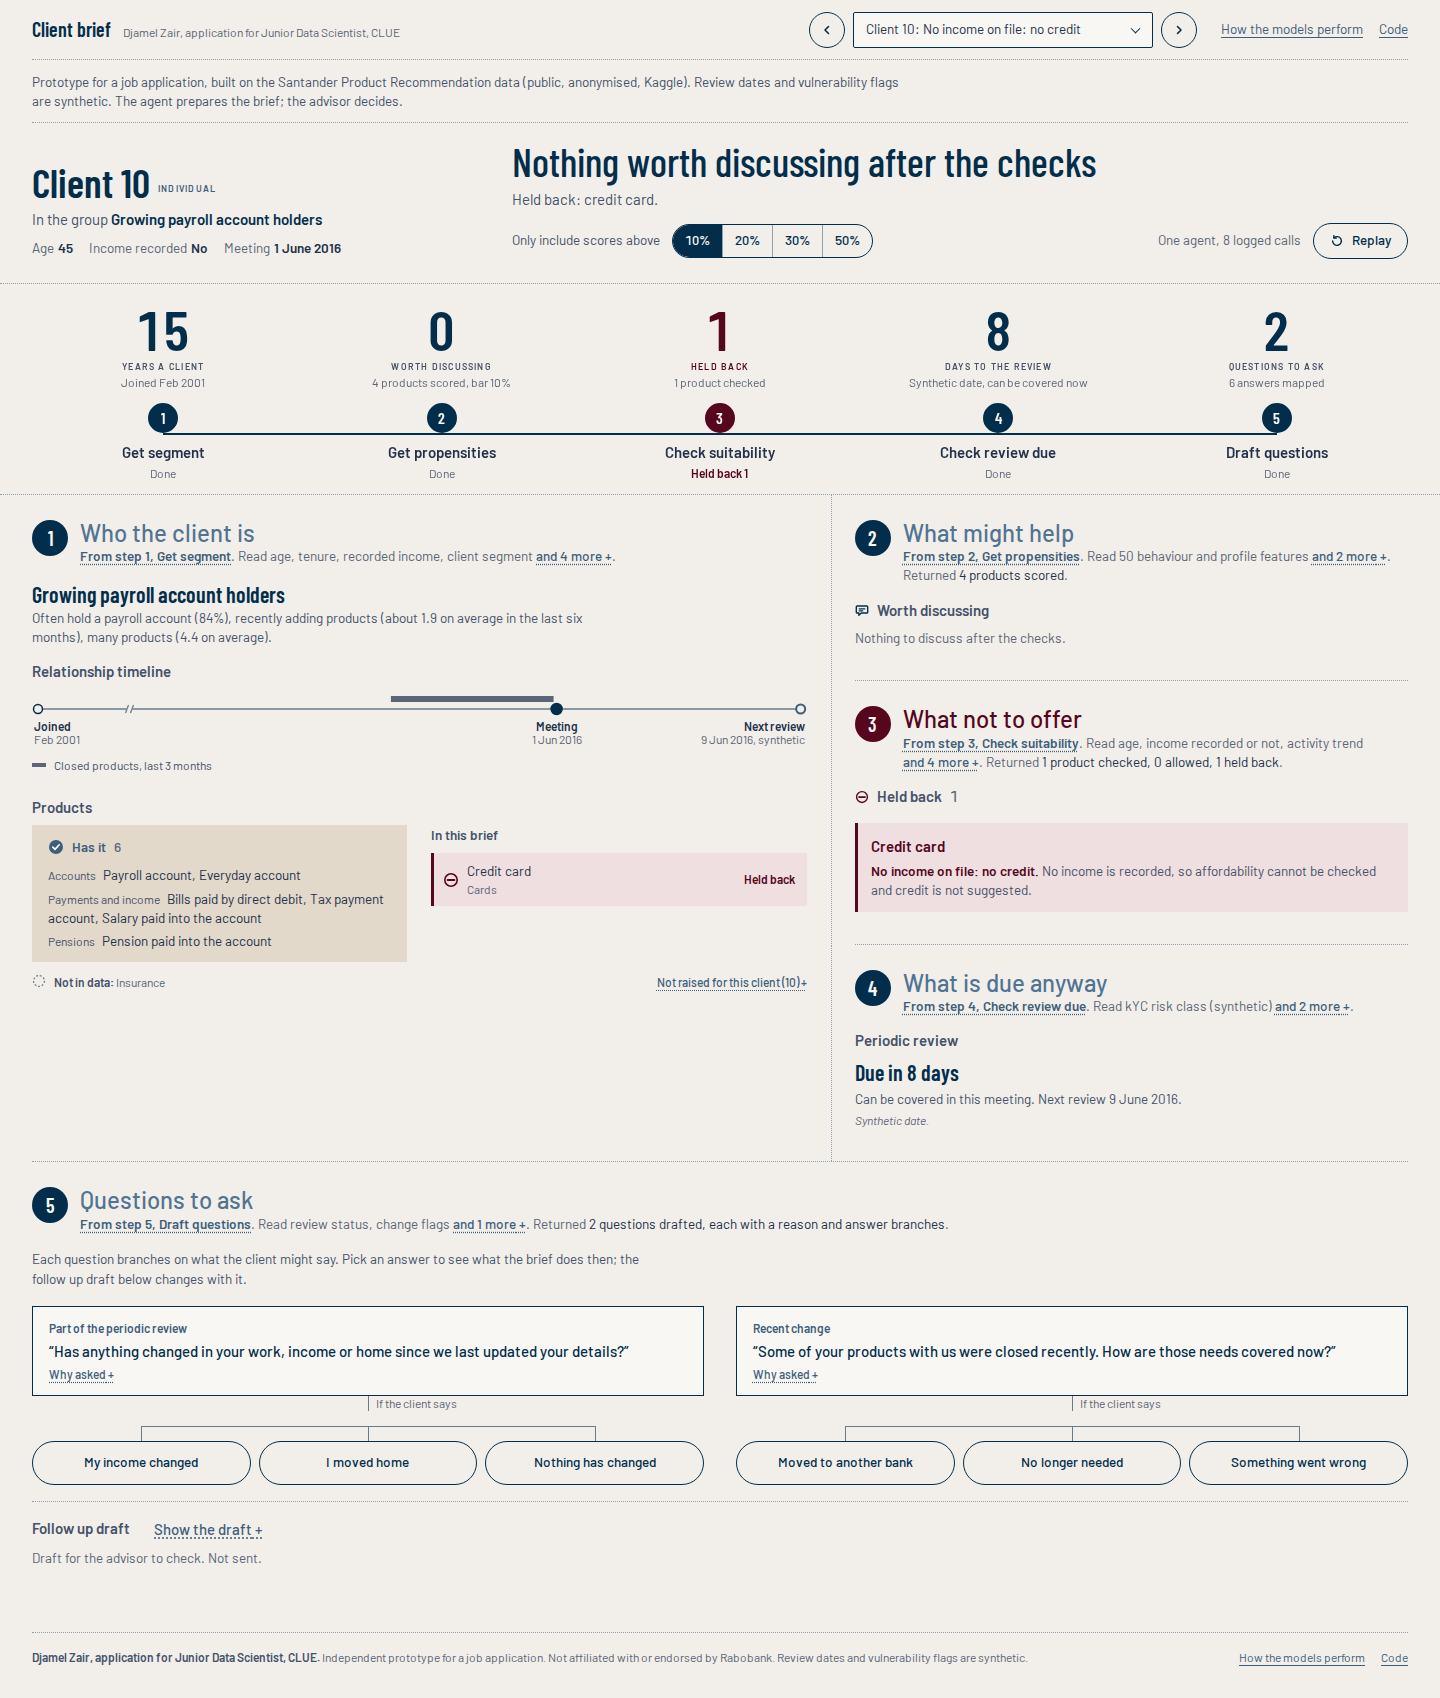
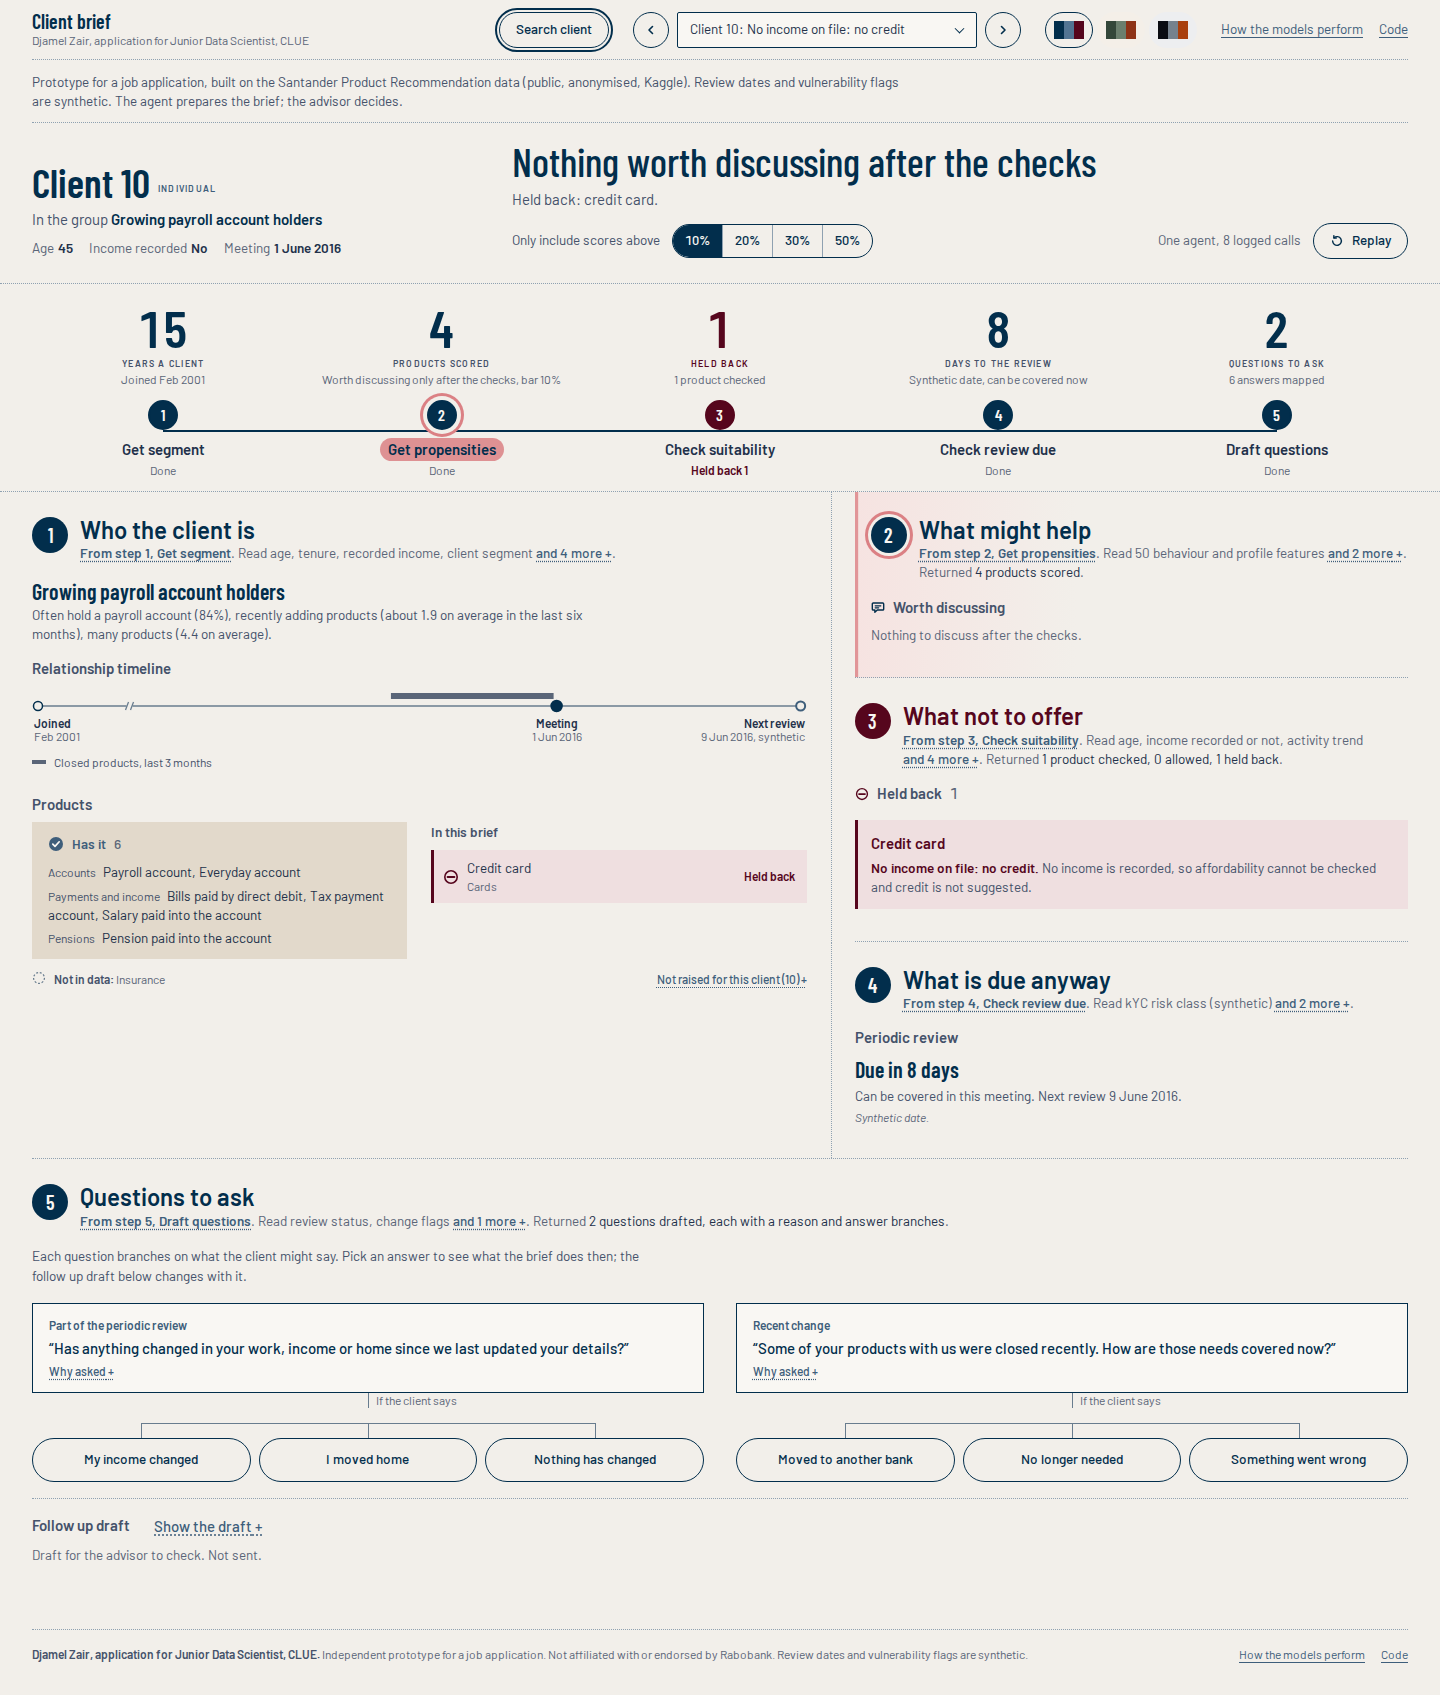
Atlas: three palettes (Fabric, Calm, Graphite), placeholder client search, critique fixes
Claude-Session: https://claude.ai/code/session_01MViAh5dQ2dT44emanrH8Bc

diff --git a/docs/brief/explore/atlas/atlas.css b/docs/brief/explore/atlas/atlas.css
@@ -85,7 +85,7 @@
   --f-display: "Barlow Condensed", "Arial Narrow", sans-serif;
   --f-sans: "Barlow", "Helvetica Neue", Arial, sans-serif;
   --f-code: ui-monospace, "SFMono-Regular", Menlo, monospace;
-  --t-num: 3.5rem;     /* 56px, the figure above each step */
+  --t-num: 3.25rem;    /* 52px, the figure above each step */
   --t-num-sm: 2.25rem; /* 36px, a figure that is a word */
   --t-h1: 2.5rem;      /* 40px, the headline */
   --t-h2: 1.5rem;      /* 24px, part titles */
@@ -167,15 +167,46 @@ b, strong { font-weight: var(--w-strong); }
 /* ---------- page frame ---------- */
 .wrap { max-width: 1480px; margin: 0 auto; padding: 0 var(--gut); }
 .top { display: flex; align-items: center; gap: var(--sp-5); min-height: 60px; border-bottom: var(--rule); }
-.top .brand { display: flex; align-items: baseline; gap: var(--sp-3); margin-right: auto; min-width: 0; }
+.top .brand { display: grid; gap: 2px; margin-right: auto; min-width: 0; }
 .top .brand b { font: var(--w-strong) 1.25rem/1 var(--f-display); color: var(--prime); white-space: nowrap; }
-.top .brand span { font-size: var(--t-cap); color: var(--ink-3); white-space: nowrap; }
+.top .brand span { font-size: var(--t-cap); line-height: 1.2; color: var(--ink-3); overflow: hidden; text-overflow: ellipsis; white-space: nowrap; }
 .top .links { display: flex; gap: var(--sp-4); font-size: var(--t-sm); white-space: nowrap; }
 .v-picker { display: flex; align-items: center; gap: var(--sp-2); }
 .v-picker .v-btn { width: 36px; padding: 0; justify-content: center; }
 .v-sel { position: relative; display: inline-flex; }
 .v-sel select { appearance: none; width: 300px; min-height: 36px; padding: 0 36px 0 var(--sp-3); background: var(--paper-2); border: 1.5px solid var(--prime); border-radius: var(--r-1); color: var(--ink); font-size: var(--t-sm); text-overflow: ellipsis; }
 .v-sel::after { content: ""; position: absolute; right: 14px; top: 50%; width: 7px; height: 7px; border: solid var(--prime); border-width: 0 1.5px 1.5px 0; transform: translateY(-70%) rotate(45deg); pointer-events: none; }
+/* the palette switch: three swatch buttons, each painted by its own data-pal block */
+.pals { display: inline-flex; gap: var(--sp-1); }
+.pal { display: inline-flex; align-items: center; gap: var(--sp-2); min-height: 36px; padding: 0 var(--sp-3) 0 var(--sp-2); background: var(--paper); color: var(--prime); border: 1.5px solid transparent; border-radius: var(--r-pill); font-size: var(--t-sm); font-weight: var(--w-mid); }
+.pal:hover { border-color: var(--mist); }
+.pal[aria-pressed="true"] { border-color: var(--prime); }
+.pal .sw { display: inline-flex; }
+/* below 1600 the names step back to a tooltip and the screen reader text, so the author line keeps its room */
+@media (max-width: 1599px) { .pal { padding: 0 var(--sp-2); } .pal .pl { position: absolute; width: 1px; height: 1px; clip-path: inset(50%); overflow: hidden; white-space: nowrap; } }
+.pal .sw i { display: block; width: 10px; height: 18px; }
+.pal .sw i:nth-child(1) { background: var(--prime); }
+.pal .sw i:nth-child(2) { background: var(--second); }
+.pal .sw i:nth-child(3) { background: var(--hold); }
+.v-btn.is-prime { background: var(--prime); color: var(--on-prime); }
+.v-btn.is-prime:hover { background: var(--ink); }
+
+/* the search dialog */
+.dlg { margin: auto; width: min(440px, calc(100vw - 2 * var(--sp-4))); max-height: calc(100dvh - 2 * var(--sp-4)); padding: var(--sp-5); background: var(--paper-2); color: var(--ink); border: 1.5px solid var(--prime); border-radius: var(--r-0); }
+.dlg::backdrop { background: color-mix(in srgb, var(--prime) 40%, transparent); }
+.dlg form { display: grid; gap: var(--sp-4); }
+.dlg-h { display: flex; align-items: baseline; justify-content: space-between; gap: var(--sp-3); }
+.dlg-h h2 { font: var(--w-strong) 1.5rem/1.1 var(--f-display); color: var(--prime); }
+.dlg-note { padding: var(--sp-2) var(--sp-3); background: var(--stone); font-size: var(--t-sm); line-height: var(--lh-sm); color: var(--ink); }
+.fld { display: grid; gap: var(--sp-1); }
+.fld label { font-size: var(--t-sm); font-weight: var(--w-strong); color: var(--ink); }
+.fld input { min-height: 40px; padding: 0 var(--sp-3); background: var(--paper); border: 1.5px solid var(--mist-ink); border-radius: var(--r-1); color: var(--ink); font: inherit; }
+.fld input:focus-visible { border-color: var(--prime); outline: 2px solid var(--prime); outline-offset: 1px; }
+.fld .hint { font-size: var(--t-cap); color: var(--ink-3); }
+.dlg-out { min-height: 1.4em; font-size: var(--t-sm); line-height: var(--lh-sm); color: var(--ink); }
+.dlg-out:empty { display: none; }
+.dlg-acts { display: flex; justify-content: flex-end; }
+
 .ctx { padding: var(--sp-3) 0; font-size: var(--t-sm); line-height: var(--lh-sm); color: var(--ink-2); max-width: 110ch; }
 
 /* masthead: who the client is on the left, the headline and the controls that change it on the right */
@@ -255,7 +286,7 @@ b, strong { font-weight: var(--w-strong); }
 .part-h { display: grid; grid-template-columns: auto minmax(0, 1fr); gap: 0 var(--sp-3); align-items: start; }
 /* the part marker is the same circle as its node on the stepper, so the eye can match them at a glance */
 .part-h .mk { grid-row: span 2; display: grid; place-items: center; width: 36px; height: 36px; margin-top: 1px; border-radius: 50%; background: var(--prime); color: var(--on-prime); font: var(--w-strong) 1.25rem/1 var(--f-display); }
-.part-h h2 { font: var(--w-mid) var(--t-h2)/1.15 var(--f-sans); color: var(--second); }
+.part-h h2 { font: var(--w-strong) var(--t-h2)/1.15 var(--f-sans); color: var(--prime); }
 .part[data-hold] .part-h h2 { color: var(--hold); }
 .part[data-hold] .part-h .mk { background: var(--hold); }
 .part[data-on] .part-h .mk, .part[data-hover] .part-h .mk { box-shadow: 0 0 0 3px var(--paper), 0 0 0 6px var(--focus); }
@@ -398,8 +429,8 @@ b, strong { font-weight: var(--w-strong); }
 /* ---------- smaller screens ---------- */
 @media (max-width: 1279px) {
   :root { --gut: var(--sp-5); --t-num: 3rem; --t-h1: 2.125rem; }
-  .top .brand span { display: none; }
-  .v-sel select { width: 240px; }
+  .v-sel select { width: 220px; }
+  .top .links { display: none; }
   .report { column-gap: var(--sp-6); }
 }
 /* a tablet: the report runs in one column, the stepper stays a row */
@@ -416,7 +447,8 @@ b, strong { font-weight: var(--w-strong); }
   :root { --gut: var(--sp-4); --t-num: 2.5rem; --t-num-sm: 1.625rem; --t-h1: 1.75rem; --t-h2: 1.25rem; --t-mark: 2.25rem; }
   .top { flex-wrap: wrap; gap: var(--sp-2); padding: var(--sp-2) 0; }
   .top .links { display: none; }
-  .v-picker { width: 100%; } .v-sel { flex: 1; } .v-sel select { width: 100%; }
+  .v-picker { width: 100%; order: 3; } .v-sel { flex: 1; } .v-sel select { width: 100%; }
+  .pals { order: 4; width: 100%; } .pal { flex: 1; justify-content: center; }
   .stepper { position: static; box-shadow: none; }
   .at-steps { grid-template-columns: minmax(0, 1fr) minmax(0, 1fr); gap: var(--sp-3); }
   .at-node { grid-template-rows: auto auto; grid-template-columns: var(--size-node) minmax(0, 1fr); justify-items: start; text-align: left; column-gap: var(--sp-2); align-items: start; }

diff --git a/docs/brief/explore/atlas/index.html b/docs/brief/explore/atlas/index.html
@@ -22,9 +22,9 @@
     <button type="button" class="v-btn find-btn" id="find-open" aria-haspopup="dialog" aria-controls="find">Search client</button>
     <div id="picker"></div>
     <div class="pals" role="group" aria-label="Colour palette">
-      <button type="button" class="pal" data-pal="fabric" data-palbtn aria-pressed="false" title="Fabric: navy, steel, stone, burgundy"><span class="sw" aria-hidden="true"><i></i><i></i><i></i></span>Fabric</button>
-      <button type="button" class="pal" data-pal="calm" data-palbtn aria-pressed="false" title="Calm: sage, moss, ivory, sand, rust"><span class="sw" aria-hidden="true"><i></i><i></i><i></i></span>Calm</button>
-      <button type="button" class="pal" data-pal="graphite" data-palbtn aria-pressed="false" title="Graphite: near black, slate, greys, orange"><span class="sw" aria-hidden="true"><i></i><i></i><i></i></span>Graphite</button>
+      <button type="button" class="pal" data-pal="fabric" data-palbtn aria-pressed="false" title="Fabric: navy, steel, stone, burgundy"><span class="sw" aria-hidden="true"><i></i><i></i><i></i></span><span class="pl">Fabric</span></button>
+      <button type="button" class="pal" data-pal="calm" data-palbtn aria-pressed="false" title="Calm: sage, moss, ivory, sand, rust"><span class="sw" aria-hidden="true"><i></i><i></i><i></i></span><span class="pl">Calm</span></button>
+      <button type="button" class="pal" data-pal="graphite" data-palbtn aria-pressed="false" title="Graphite: near black, slate, greys, orange"><span class="sw" aria-hidden="true"><i></i><i></i><i></i></span><span class="pl">Graphite</span></button>
     </div>
     <nav class="links" aria-label="Pages"><a href="../../../model.html">How the models perform</a><a id="code-l" href="https://github.com/DjamelZair/ClientMeetingBriefAgent-">Code</a></nav>
   </header>
@@ -300,9 +300,8 @@ document.getElementById("find-f").addEventListener("submit", function(e){
   if (!raw){ dOut.textContent = other ? "No match. " + PH : "Enter a client ID, for example 10 or C10."; return; }
   var m = /^(?:c|client)?\s*0*(\d{1,3})$/i.exec(raw), n = m ? +m[1] : -1;
   var i = F ? F.clients.findIndex(function(c){ return +c.ref.replace(/\D/g, "") === n; }) : -1;
-  if (i < 0){ dOut.textContent = "No showcase client with that ID. The showcase has clients 1 to " + (F ? F.count : 40) + "." + (other ? " Name and date of birth cannot match: " + PH.charAt(0).toLowerCase() + PH.slice(1) : ""); return; }
+  if (i < 0){ dOut.textContent = "No showcase client with that ID. The showcase has clients 1 to " + (F ? F.count : 40) + "." + (other ? " " + PH : ""); return; }
   dlg.close(); V.show(i, true);
-  var st = document.getElementById("report"); if (st) st.focus({preventScroll: true});
 });
 
 /* the stepper casts its shadow only while it rides at the top, which is once the masthead has left the screen */

diff --git a/docs/brief/explore/atlas/checks/acheck.py b/docs/brief/explore/atlas/checks/acheck.py
@@ -71,6 +71,31 @@ with serve() as base, sync_playwright() as p:
     ok(pg.evaluate("V.state.v.index") == 9, "prev goes back to client 10")
     pg.click('[data-act="fu"]'); pg.wait_for_timeout(300)
     ok(pg.evaluate("!document.getElementById('v-fu-body').hidden"), "follow up draft opens")
+    # palettes: the switch sets the attribute, the url and this viewer's storage
+    pg.click('[data-palbtn][data-pal="calm"]'); pg.wait_for_timeout(200)
+    ok(pg.evaluate("document.documentElement.dataset.pal === 'calm' && localStorage.getItem('atlas-pal') === 'calm' && location.search.includes('pal=calm')"), "palette switch: attribute, url and localStorage")
+    ok(pg.evaluate("getComputedStyle(document.querySelector('[data-palbtn][data-pal=graphite] .sw i')).backgroundColor") == "rgb(10, 12, 18)", "graphite swatch paints from its own palette")
+    pg.click('[data-palbtn][data-pal="fabric"]'); pg.wait_for_timeout(200)
+    # search
+    pg.click('#find-open'); pg.wait_for_timeout(200)
+    ok(pg.evaluate("document.getElementById('find').open && document.activeElement.id === 'f-id'"), "search dialog opens with focus in Client ID")
+    pg.keyboard.press("Escape"); pg.wait_for_timeout(200)
+    ok(pg.evaluate("!document.getElementById('find').open && document.activeElement.id === 'find-open'"), "Escape closes the dialog and returns focus")
+    pg.click('#find-open'); pg.fill('#f-name', 'Jan Jansen'); pg.fill('#f-dob', '1970-01-01'); pg.click('#find-f [type=submit]'); pg.wait_for_timeout(200)
+    out = pg.evaluate("document.getElementById('find-out').textContent")
+    ok("placeholder" in out, f"name and date of birth give the placeholder message")
+    leak = pg.evaluate("location.href + JSON.stringify(Object.assign({}, localStorage)) + document.cookie")
+    ok("Jansen" not in leak and "1970" not in leak and not any("Jansen" in e for e in errs), "name and date of birth never reach the url, storage or console")
+    pg.fill('#f-id', 'C11'); pg.click('#find-f [type=submit]'); pg.wait_for_timeout(1600)
+    ok(pg.evaluate("!document.getElementById('find').open && V.state.v.index === 10"), "Client ID C11 jumps to client 11")
+    pg.click('#find-open'); pg.fill('#f-id', '10'); pg.press('#f-id', 'Enter'); pg.wait_for_timeout(1600)
+    ok(pg.evaluate("V.state.v.index === 9"), "Client ID 10 jumps to client 10")
+    pg.click('#find-open'); pg.fill('#f-id', '99'); pg.press('#f-id', 'Enter'); pg.wait_for_timeout(200)
+    ok("No showcase client" in pg.evaluate("document.getElementById('find-out').textContent"), "an unknown ID says so")
+    pg.keyboard.press("Escape"); pg.wait_for_timeout(200)
+    ok(pg.evaluate("document.getElementById('f-id').value === ''"), "closing clears the fields")
+    big = pg.evaluate("""() => { const out = []; for (let i = 0; i < V.state.F.count; i++){ V.show(i, false); const t = document.querySelector('#v-step-4 .at-fig .n').textContent; if (/^\\d{3,}$/.test(t)) out.push(i + 1); } return out; }""")
+    ok(not big, f"no review figure is a long day count {big}")
     ok(not errs, f"no console errors at 1440 {errs[:3]}")
     if "shots" in sys.argv:
         pg.click('[data-act="fu"]')
@@ -78,6 +103,12 @@ with serve() as base, sync_playwright() as p:
         for c in (4, 10, 11):
             show(pg, c - 1); pg.evaluate("scrollTo(0, 0)"); pg.mouse.move(0, 0); pg.wait_for_timeout(400)
             pg.screenshot(path=str(SHOTS / f"desktop_client{c:02d}.png"))
+        for pal in ("fabric", "calm", "graphite"):
+            pg.click(f'[data-palbtn][data-pal="{pal}"]'); show(pg, 9); pg.evaluate("scrollTo(0, 0)"); pg.mouse.move(0, 0); pg.wait_for_timeout(400)
+            pg.screenshot(path=str(SHOTS / f"desktop_client10_{pal}.png"))
+        pg.click('[data-palbtn][data-pal="fabric"]')
+        pg.click('#find-open'); pg.fill('#f-name', 'Example'); pg.click('#find-f [type=submit]'); pg.wait_for_timeout(300)
+        pg.screenshot(path=str(SHOTS / "desktop_search_dialog.png")); pg.keyboard.press("Escape"); pg.wait_for_timeout(200)
         show(pg, 9); pg.evaluate("scrollTo(0, 0)"); pg.wait_for_timeout(300)
         pg.screenshot(path=str(SHOTS / "desktop_client10_full.png"), full_page=True)
     pg.close()
@@ -92,6 +123,9 @@ with serve() as base, sync_playwright() as p:
     if "shots" in sys.argv:
         show(pg, 9); pg.evaluate("scrollTo(0, 0)"); pg.wait_for_timeout(300)
         pg.screenshot(path=str(SHOTS / "phone_client10.png"), full_page=True)
+        pg.click('#find-open'); pg.wait_for_timeout(300)
+        ok(pg.evaluate("document.getElementById('find').getBoundingClientRect().right <= innerWidth"), "search dialog fits the phone")
+        pg.screenshot(path=str(SHOTS / "phone_search_dialog.png")); pg.keyboard.press("Escape")
     pg.close(); b.close()
 
 print("\n".join(res))

diff --git a/docs/brief/explore/atlas/checks/ahelp.py b/docs/brief/explore/atlas/checks/ahelp.py
@@ -19,12 +19,12 @@ def serve():
         try: yield f"http://127.0.0.1:{h.server_address[1]}"
         finally: h.shutdown()
 
-def open_page(b, base, w, h, reduce=False):
+def open_page(b, base, w, h, reduce=False, q=""):
     pg = b.new_page(viewport={"width": w, "height": h}, reduced_motion="reduce" if reduce else "no-preference")
     errs = []
     pg.on("console", lambda m: errs.append(m.text) if m.type == "error" else None)
     pg.on("pageerror", lambda e: errs.append(str(e)))
-    pg.goto(f"{base}/{PAGE}")
+    pg.goto(f"{base}/{PAGE}{q}")
     pg.wait_for_function("window.__brief && document.querySelectorAll('[aria-busy=true]').length === 0", timeout=15000)
     pg.evaluate("document.fonts.ready"); pg.wait_for_timeout(1500)
     return pg, errs

diff --git a/docs/brief/explore/atlas/notes.md b/docs/brief/explore/atlas/notes.md
@@ -106,3 +106,34 @@ Mist #8FA1B1 and rose are never used as text. Mist on paper is 2.32, so it is us
 ## Not done
 - No dark mode: it is a paper report, and the main page has none either.
 - No ds or scheme switcher, because this direction is its own system.
+
+## Round 2: the user picked Atlas
+
+### Three palettes
+The switcher is in the header. The order of precedence is `?pal=fabric|calm|graphite`, then this viewer's last choice, then Fabric. The last choice is kept in localStorage under `atlas-pal`, wrapped in try/catch.
+
+Each swatch button carries `data-pal` and paints itself from its own palette block. All colours are role tokens: paper, stone, prime, ink, second, mist, hold, focus.
+
+| Palette | 60 (surface) | 30 (ink and supports) | 10 (focus) | Held back |
+|---|---|---|---|---|
+| Fabric (default) | Paper #F2EFEA | Navy, steel, stone | Rose | Burgundy #56061D |
+| Calm | Ivory #F4EFE8 | Sage, darkened to #34473A for text; moss and mist | Sand | Rust #8E3317 |
+| Graphite | Light grey #EDEEF0 | #0A0C12, graphite #3F3A42, slate #76828E | Light slate | #DB5227 darkened to #A9400F for text, used only for held back, what not to offer and overdue |
+
+- No palette pairs dark navy with orange.
+- The five product states keep their glyph and word in every palette.
+- `contrast.py` checks 34 pairs in each of the 3 palettes: 0 failures, exit 0.
+
+### Search client
+The dialog is a native modal `<dialog>`, so the page behind it is inert and Esc closes it. Focus moves to Client ID when it opens and returns to the button when it closes. Closing clears the fields.
+
+- **Client ID (klant ID)** matches the 40 showcase clients, for example 10, C10 or "client 10", and jumps to that client.
+- **Name and date of birth** never match. They show the placeholder line. The inputs have no name attribute and the form never submits.
+- The check confirms that a typed name and birth date never reach the URL, localStorage or the console.
+
+### Critique fixes
+- **Step 2 figure.** It now shows how many products were scored, with the line "Worth discussing only after the checks". There is no count of suggestions.
+- **Review figure.** A review that is not due shows its date and "Not due". The check confirms that no review figure is a long day count.
+- **Part titles.** They are now prime and semibold, so they no longer look like links.
+- **Figures.** They are slightly smaller (52px), so the headline is the clear first read.
+- **Author line.** It sits under "Client brief". Below 1600px the palette names move to a tooltip and to text that only screen readers read.
